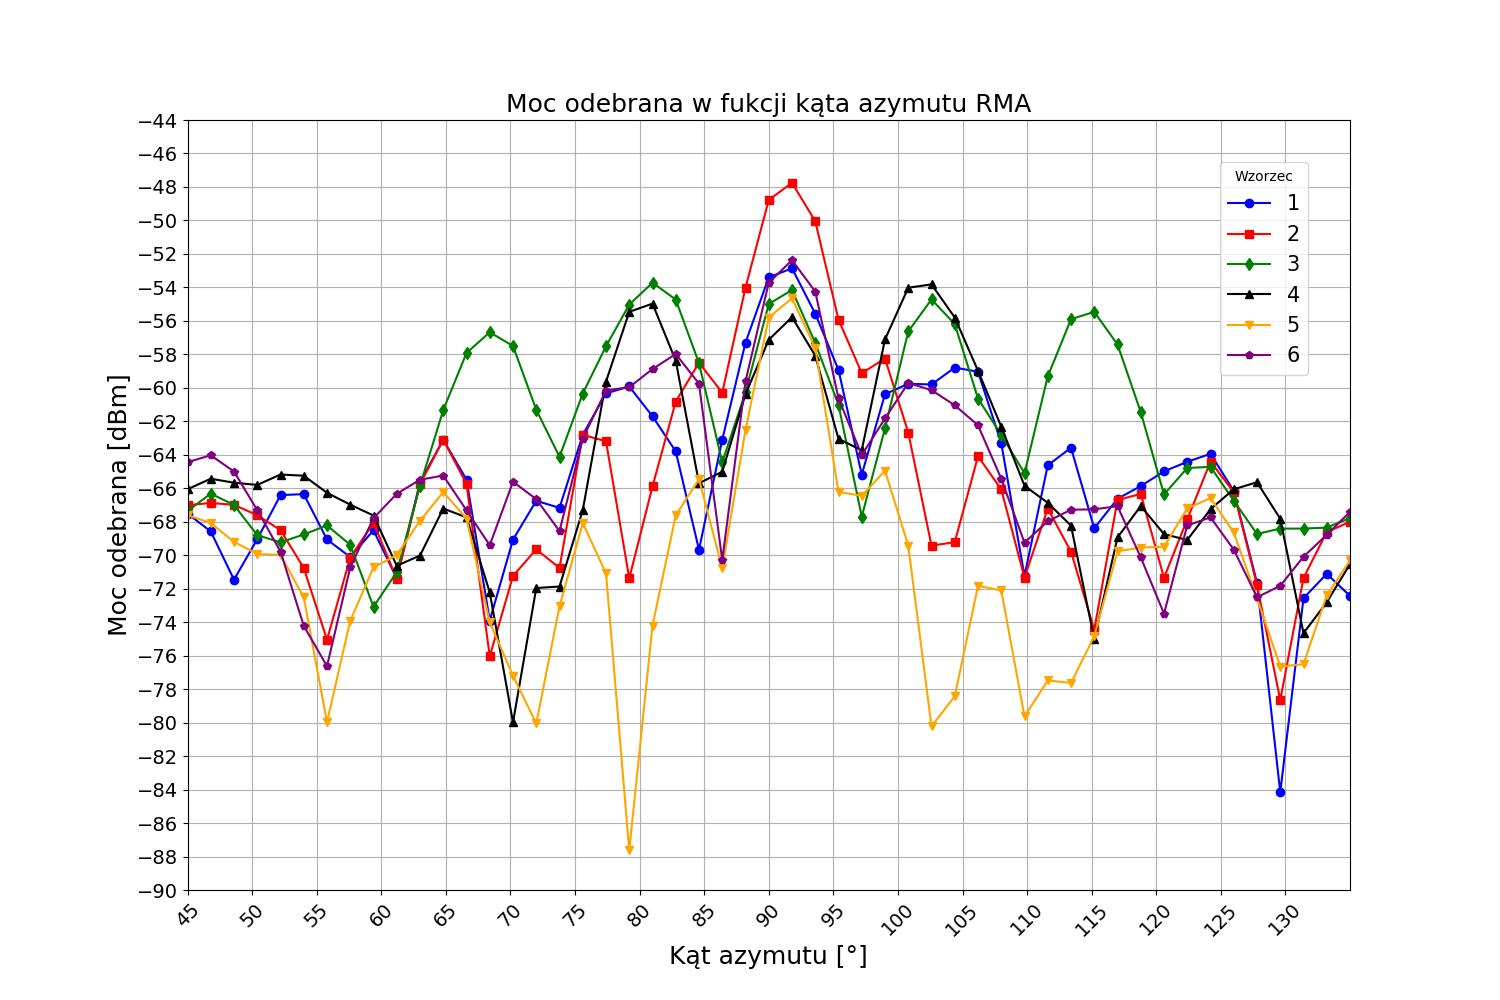
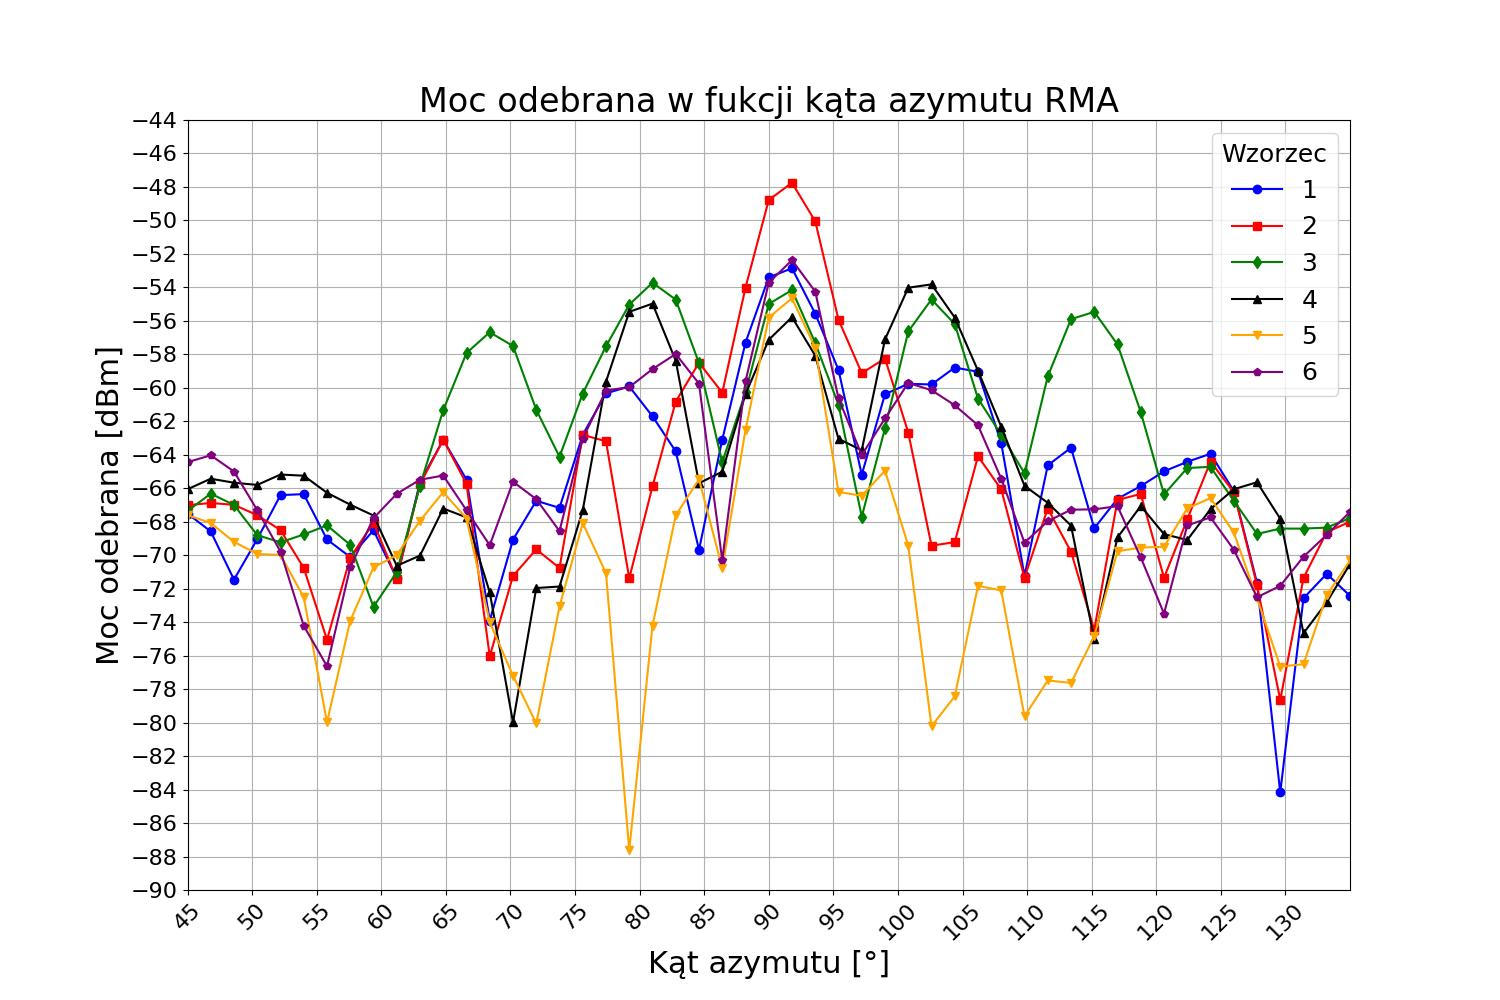
bigger fontsize in 2D_char_plot

diff --git a/wizualizacja_danych/plot_2D_char/Charakterystyka_2D.py b/wizualizacja_danych/plot_2D_char/Charakterystyka_2D.py
@@ -27,20 +27,20 @@ def plot_multiple_patterns_from_csv(file_path, patterns):
         marker = markers[index % len(markers)]
         plt.plot(specific_pattern_df['Degrees'], specific_pattern_df['Power'], marker=marker, linestyle='-', label=pattern, color=color)
 
-    plt.xlabel('Kąt azymutu [°]', fontsize=18)
-    plt.ylabel('Moc odebrana [dBm]', fontsize=18)
-    plt.title('Moc odebrana w fukcji kąta azymutu RMA', fontsize=18)
+    plt.xlabel('Kąt azymutu [°]', fontsize=22)
+    plt.ylabel('Moc odebrana [dBm]', fontsize=22)
+    plt.title('Moc odebrana w fukcji kąta azymutu RMA', fontsize=24)
     plt.xlim(45, 135)
     plt.ylim(power_min, power_max)
-    plt.xticks([x *5 for x in range(9, 27)], rotation=45, fontsize=14)  
-    plt.yticks([y * 2 for y in range(int(power_min / 2), int(power_max / 2 + 1))], fontsize=14)  
-    plt.legend(["1", "2","3","4","5","6"], loc="upper right", prop={'size': 15}, borderaxespad=2, title='Wzorzec')
+    plt.xticks([x *5 for x in range(9, 27)], rotation=45, fontsize=16)  
+    plt.yticks([y * 2 for y in range(int(power_min / 2), int(power_max / 2 + 1))], fontsize=16)  
+    plt.legend(["1", "2","3","4","5","6"], loc="upper right", prop={'size': 18}, borderaxespad=0.5, title_fontsize=18, title='Wzorzec')
     plt.grid(True)
     plt.savefig(f'2D_pattern.jpg', format='jpg')
     plt.show()
     
 
 # Adjusted for demonstration; replace with your actual file path and patterns
-file_path = open(r'C:\Users\Marcel\Python_RIS\Python_RIS\wyniki\charakterystyka_2D\9_04_5_5GHz_1.5m_ch_ka.csv')
+file_path = open(r'/Users/dawidbrzakala/Python_RIS/wyniki/charakterystyka_2D/9_04_5_5GHz_1.5m_ch_ka.csv')
 patterns = [1,2, 17, 19, 21, 26]#,"Horizontal strips [0101]","Chessboard [1010/0101]","Chessboard [0101/1010]","Thick vertical strips [1100]","Thick vertical strips [0011]","Thicker vertical strips [11110000]","Thicker vertical strips [00001111]","Thick horizontal strips [1100]","Thick horizontal strips [0011]","Chessboard [11001100/00110011]", "Chest","Dartboard","Random 1","Random 2","Random 3","Random 4"]
 plot_multiple_patterns_from_csv(file_path, patterns)#"All elements turn on","Only first element turn on","Only last element turn on","Left side on",
